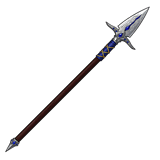
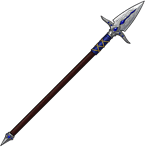
Крупнее иконки оружия, спрайты без пустых полей

Changed region(s): [[0.0, 0.0, 1.0, 1.0]]

diff --git a/src/ui/hud.js b/src/ui/hud.js
@@ -252,7 +252,7 @@ export function createHud(app, player, enemySystem, leveling, weaponSystem, skil
         pointerEvents: "none",
         boxShadow: "0 2px 8px rgba(0,0,0,0.4)",
       });
-      const weaponIconEl = weaponIcon(weapon, 24);
+      const weaponIconEl = weaponIcon(weapon, 30);
       weaponIconEl.style.color = "var(--color-accent)";
       const weaponStars = createRankStars(weapon?.rank ?? 1, { size: 7, gap: "0" });
       slot.appendChild(weaponIconEl);

diff --git a/src/ui/rewardScreen.js b/src/ui/rewardScreen.js
@@ -129,7 +129,7 @@ export function createRewardScreen({ onPick } = {}) {
       badge.textContent = String(index + 1);
       card.appendChild(badge);
 
-      const ic = choice.kind === "weapon" ? weaponIcon(choice.config ?? "spear", 36) : icon("coin", 36);
+      const ic = choice.kind === "weapon" ? weaponIcon(choice.config ?? "spear", 44) : icon("coin", 36);
       ic.style.color = "var(--color-accent)";
       card.appendChild(ic);
 

diff --git a/src/systems/leveling.js b/src/systems/leveling.js
@@ -150,7 +150,7 @@ export function createLeveling(player, enemySystem, options = {}) {
     });
     const iconEl = document.createElement("div");
     if (candidate.card.sprite) {
-      iconEl.appendChild(spriteImage(candidate.card.sprite, 22));
+      iconEl.appendChild(spriteImage(candidate.card.sprite, 32));
     } else {
       iconEl.textContent = candidate.card.icon ?? "★";
       iconEl.style.fontSize = "22px";
